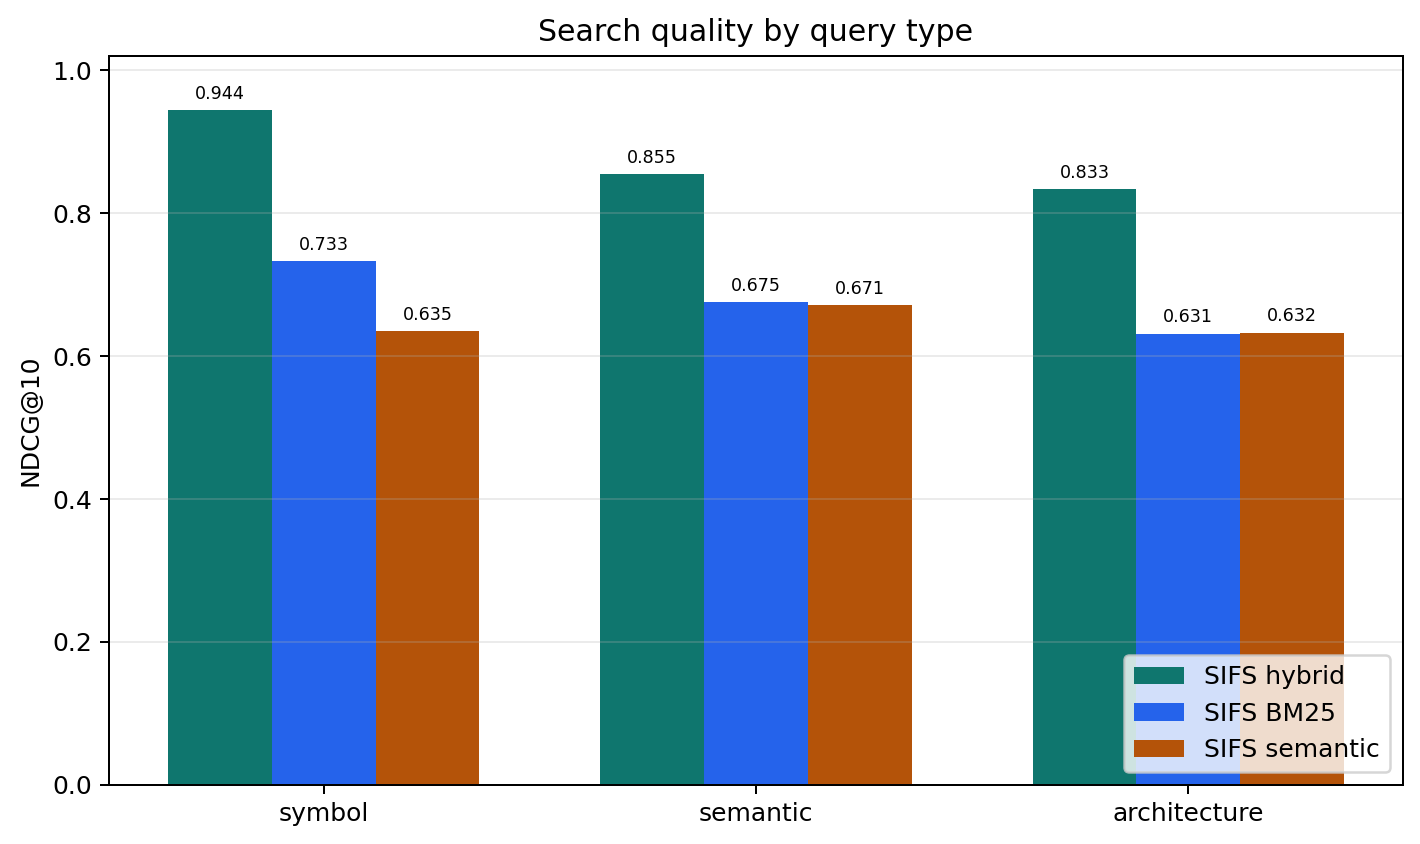
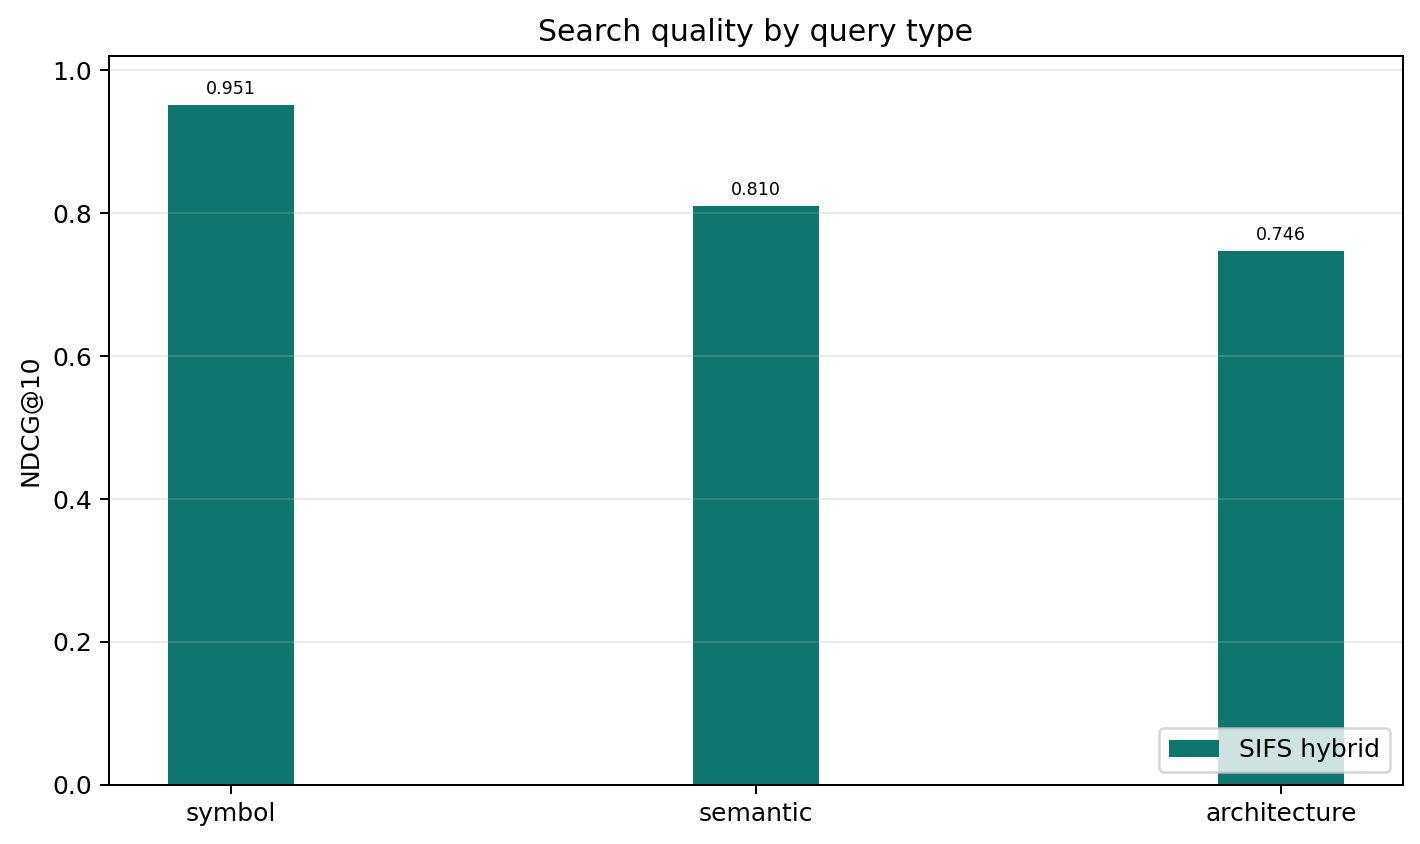
Avoid stale benchmark mode plots

diff --git a/benchmarks/plot_sifs_comparison.py b/benchmarks/plot_sifs_comparison.py
@@ -549,9 +549,7 @@ def main() -> None:
     plot_sifs_breakdowns(args.sifs_result, assets)
     plot_query_type_by_mode(
         {
-            "SIFS hybrid": REPO_ROOT / "benchmarks" / "results" / "sifs-mode-hybrid.json",
-            "SIFS BM25": REPO_ROOT / "benchmarks" / "results" / "sifs-mode-bm25.json",
-            "SIFS semantic": REPO_ROOT / "benchmarks" / "results" / "sifs-mode-semantic.json",
+            "SIFS hybrid": args.sifs_result,
         },
         assets,
     )

diff --git a/docs/benchmark-report.md b/docs/benchmark-report.md
@@ -194,6 +194,11 @@ The generated PNGs are written into [assets/images](../assets/images), and a
 compact generated table is written to
 [benchmarks/README.generated.md](../benchmarks/README.generated.md).
 
+The query-type figure uses the current `--sifs-result` payload only. Historical
+mode-ablation JSON files under `benchmarks/results/sifs-mode-*.json` should be
+regenerated with the current benchmark binary and `--no-cache` before they are
+used for fresh comparison claims.
+
 The context-efficiency figure is generated from
 [benchmarks/results/sifs-context-curves.json](../benchmarks/results/sifs-context-curves.json),
 a compact summary of context-mode benchmark runs for SIFS hybrid, BM25,

diff --git a/CHANGELOG.md b/CHANGELOG.md
@@ -48,6 +48,8 @@ versioning where practical.
   benchmark documentation with reproducibility and first-use latency fields.
 - Added opt-in benchmark candidate diagnostics for distinguishing candidate
   generation misses from reranking misses in per-task benchmark output.
+- Stopped benchmark plot generation from reading stale mode-ablation result
+  files for the query-type figure.
 - Expanded hybrid candidate pools adaptively so natural-language and
   architecture-style queries retain more BM25 and semantic candidates before
   final reranking.